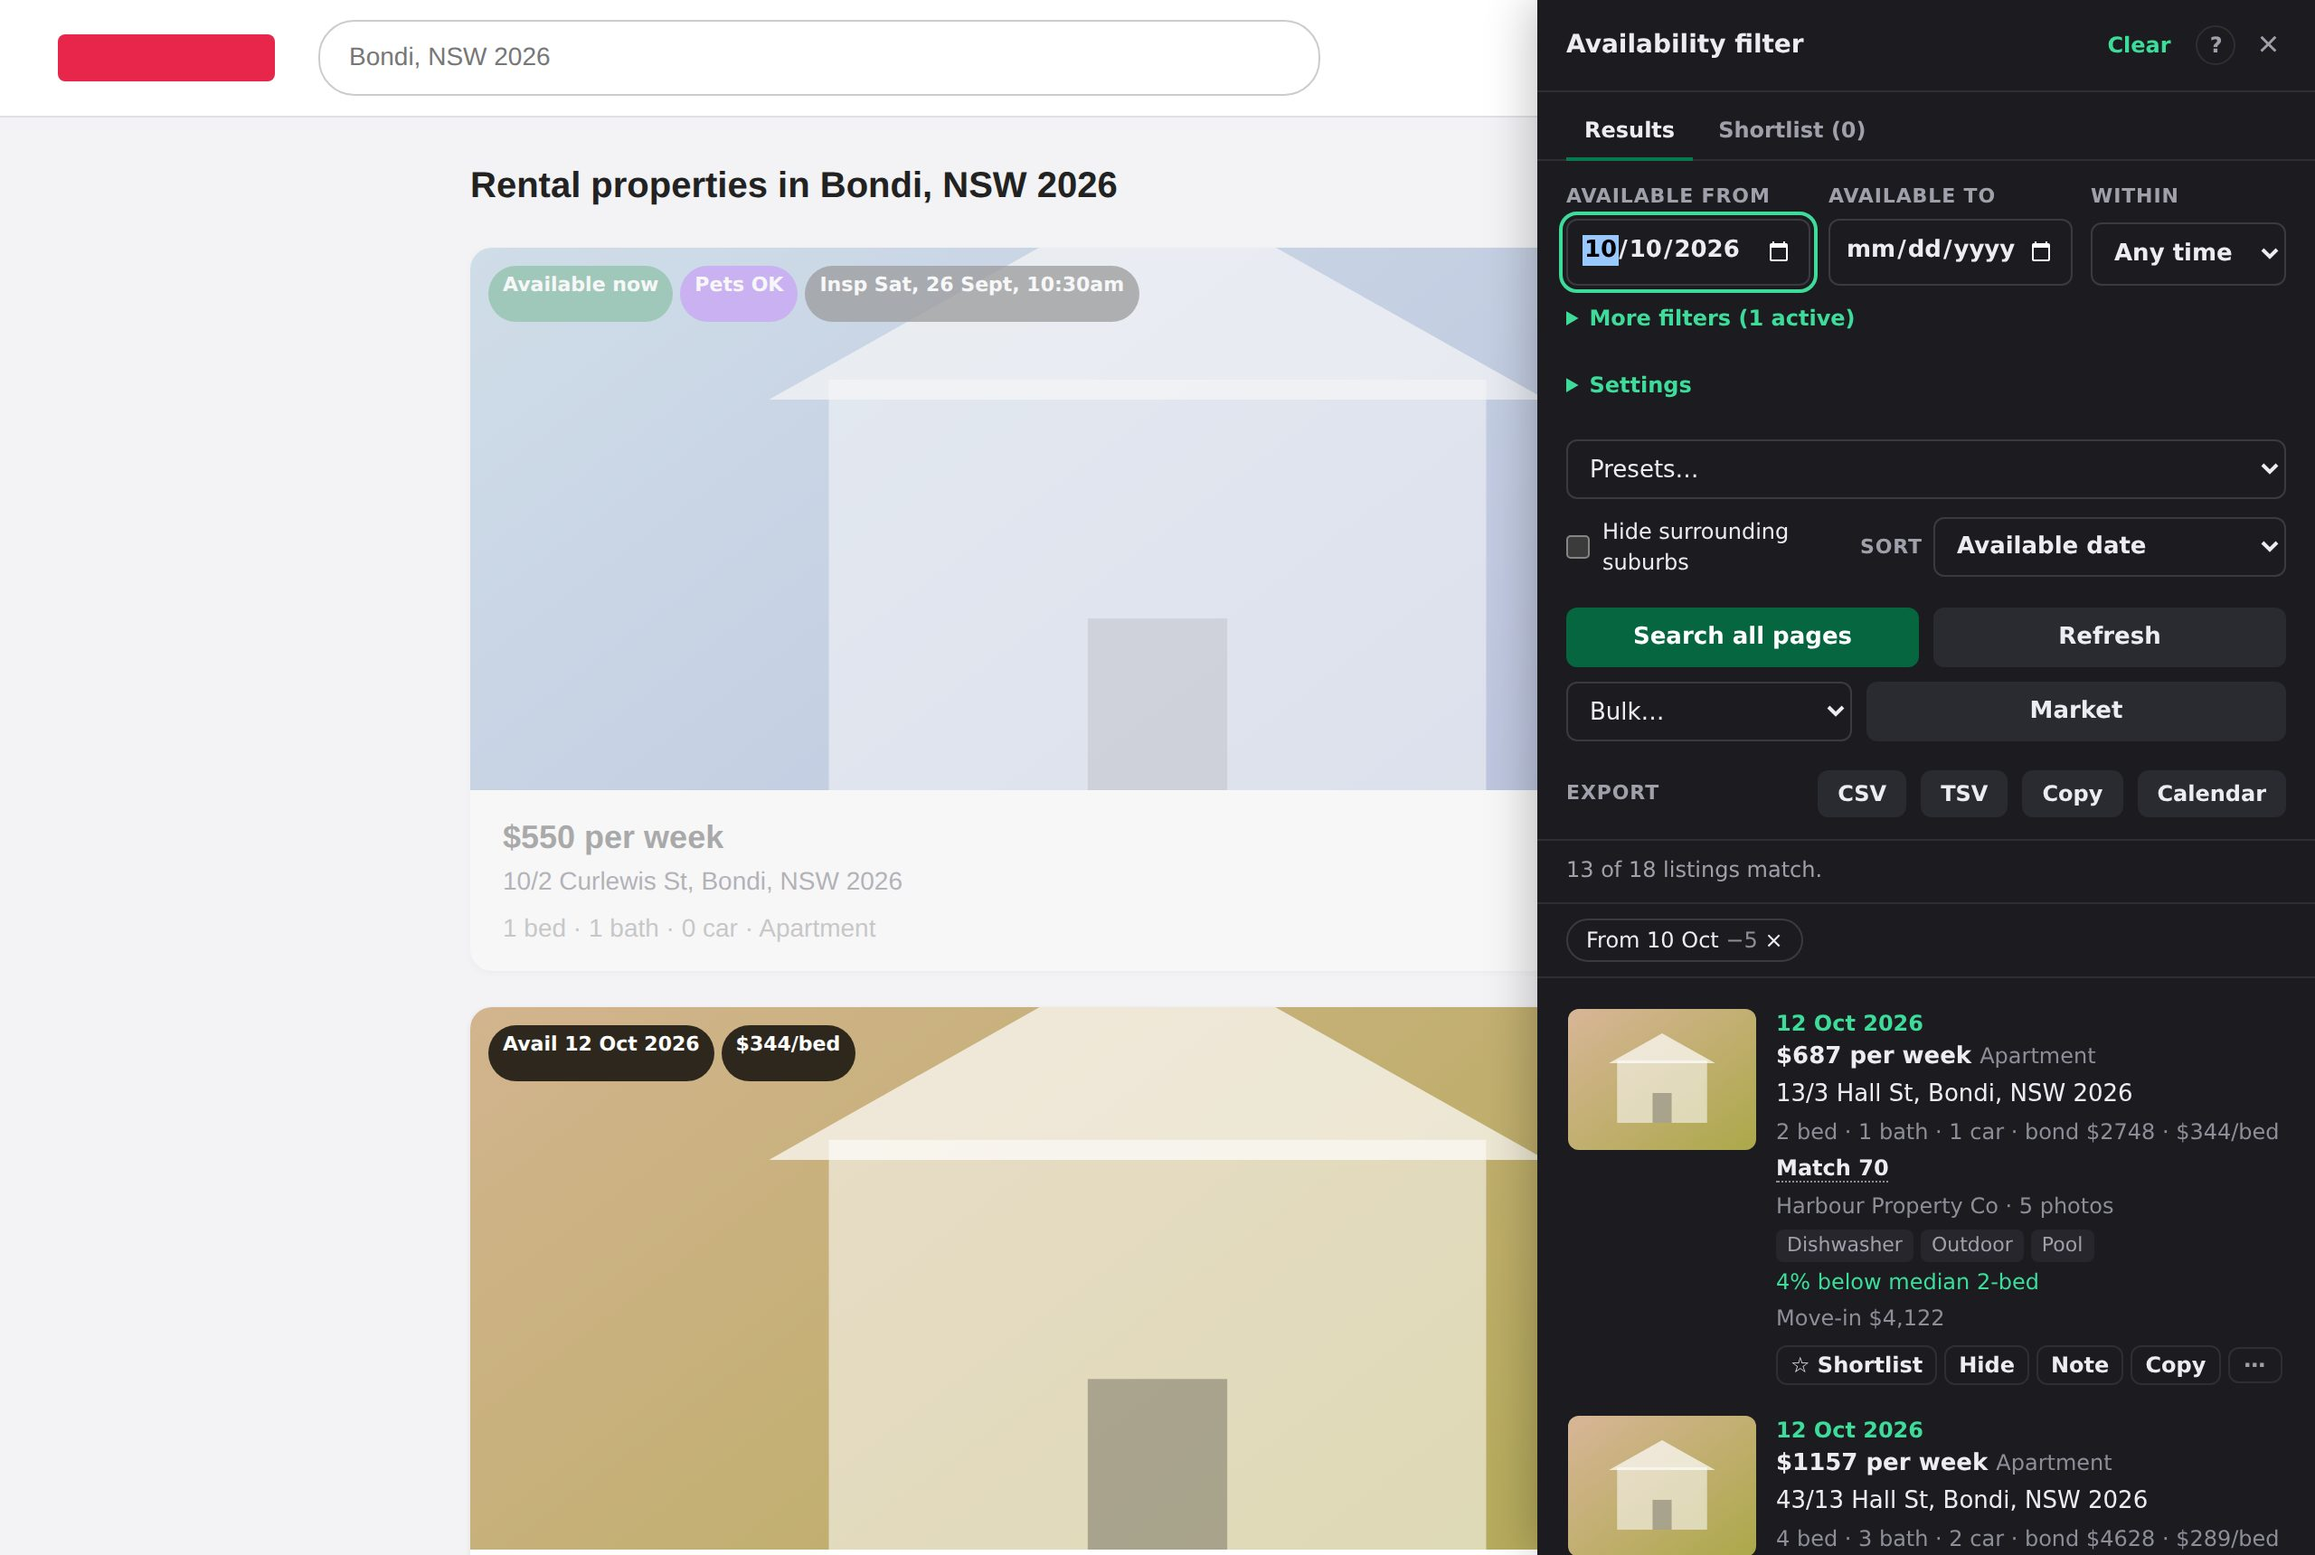
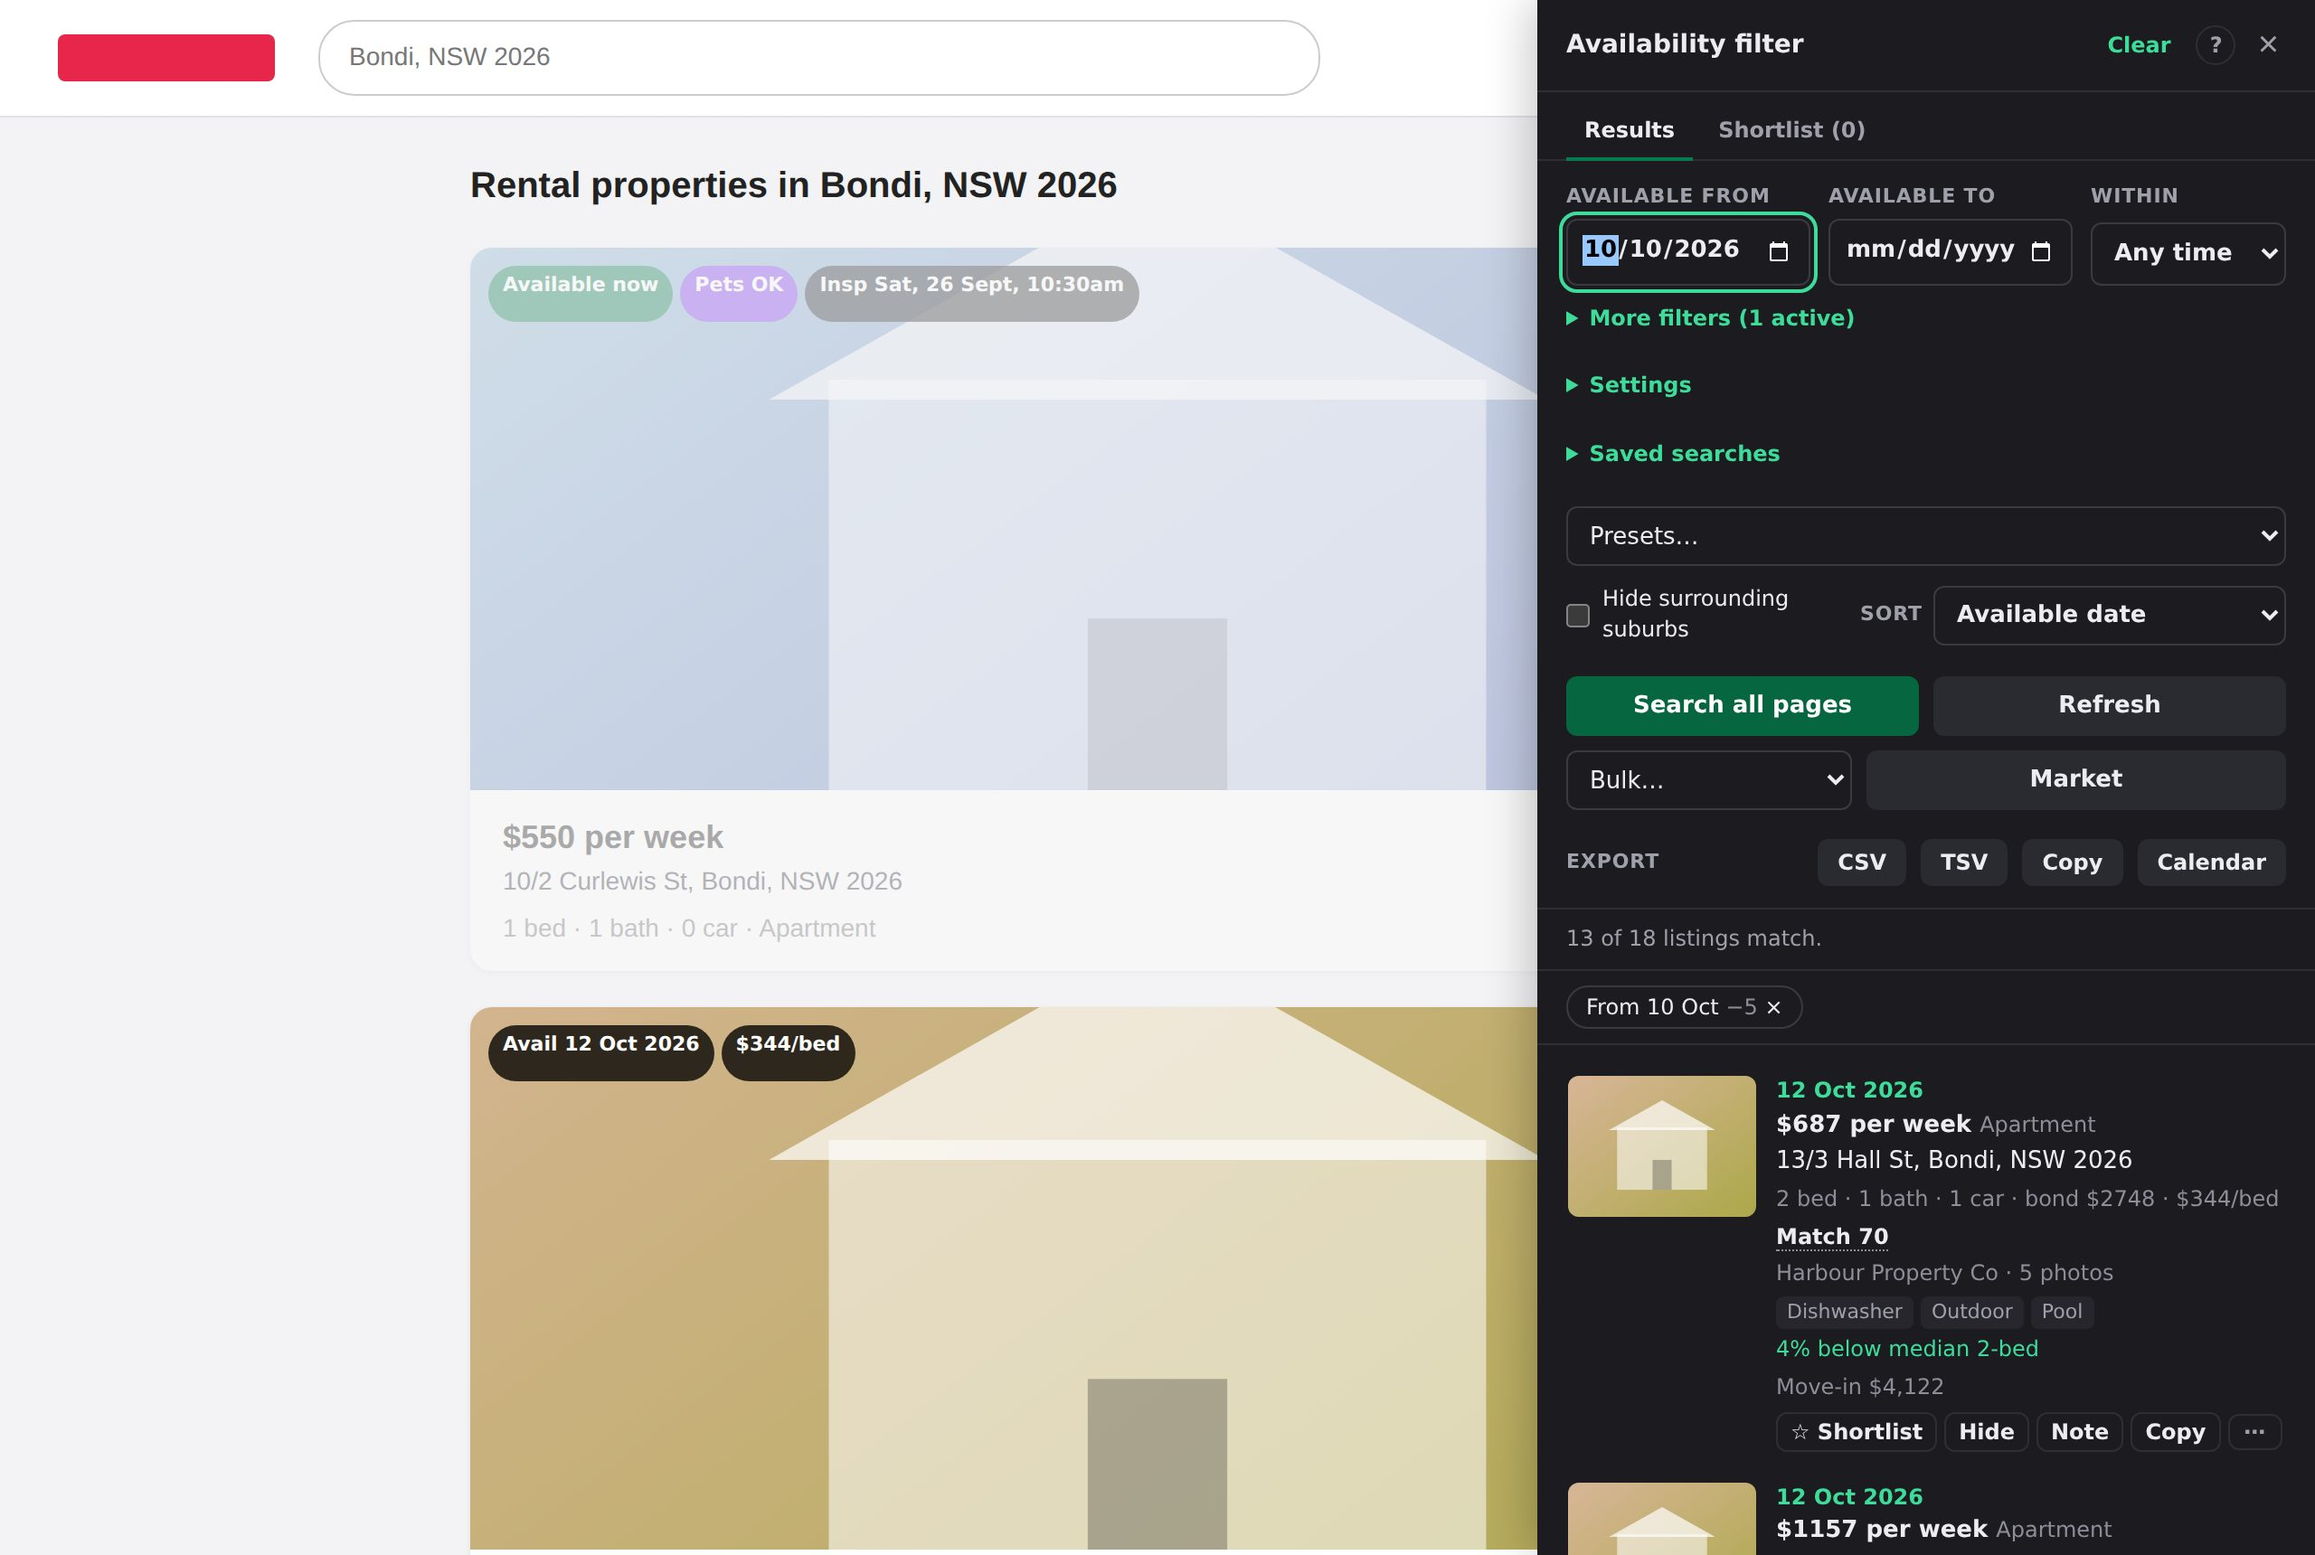
Bump 2.10.0; changelog, readme, screenshots

diff --git a/rea-availability-filter.user.js b/rea-availability-filter.user.js
@@ -1,7 +1,7 @@
 // ==UserScript==
 // @name         REA Availability Filter
 // @namespace    https://github.com/cpwillis/rea-enhancement
-// @version      2.9.1
+// @version      2.10.0
 // @description  Availability-date filtering and sorting, extra filters, cross-page merging, on-card availability badges and CSV/TSV export for realestate.com.au rental searches.
 // @author       cpwillis
 // @homepageURL  https://github.com/cpwillis/rea-enhancement

diff --git a/README.md b/README.md
@@ -28,6 +28,8 @@ Updates are automatic: Tampermonkey checks `@updateURL` (the file on `main`) and
 - Sort by available date, price, price per bed, best value vs median, **best match**, nearest, most beds, next inspection, newest first. Best match is a 0-100 score from rent vs your budget (or the median), timing vs your "from" date, distance and move-in cost; hover it to see the parts.
 - **Move-in cost** (bond + 2 weeks' rent) on every listing; bonds above 4 weeks' rent are flagged.
 - **Rent vs median** for the same bed count in your results (eg "12% below median 2-bed").
+- **Market view**: rent spread per bed count and a week-by-week availability chart for what you're looking at; click a week to filter to it.
+- **Household income** (optional): rent as a share of income, flagged over 30%.
 - **Active filter chips** show what's filtering and how many listings each removes; click one to drop it.
 - **Presets**: save filter sets by name, or one per search that applies automatically when you come back.
 - **Bulk actions** (shortlist or hide everything shown, set a status across the shortlist) with Undo.
@@ -50,11 +52,14 @@ Updates are automatic: Tampermonkey checks `@updateURL` (the file on `main`) and
 - **Share** the shortlist as a link (data stays in the link, nothing goes to a server) or **Print** it for open homes.
 - **Backup / Restore** the shortlist, hidden listings, notes and remembered searches as a JSON file, eg to move to another browser.
 - **Remembers each search between visits** (on by default; a setting turns it off and forgets what's stored). Coming back shows the saved results straight away, and **Refresh** fetches current listings and diffs them: listings added since your last visit are tagged **new** (filter: "New since last visit only"), and ones taken down are counted and can be shown greyed out. Sort **Newest first** to see additions in order of listing.
+- **Saved searches**: see your remembered searches and **Check all for new listings** in one click (each fetched one page at a time).
 - Price changes show "was $X" (hover for the full history). A listing relisted at the same address under a new id is tagged **relisted** with its old price, and stays hidden if you'd hidden it.
 
 ![Shortlist and price-change tags](docs/screenshots/shortlist.jpg)
 
 ![Compare shortlisted listings](docs/screenshots/compare.jpg)
+
+![Market view](docs/screenshots/market.jpg)
 
 **Export**: CSV (opens cleanly in Excel), TSV, copy to clipboard for Google Sheets, or **Calendar** (.ics) with every upcoming inspection time for your results or shortlist. Spreadsheet columns include weekly rent, $/bed, move-in cost, vs-median, inspections, shortlist, application status and previous price.
 

diff --git a/CHANGELOG.md b/CHANGELOG.md
@@ -2,6 +2,14 @@
 
 Versions match the userscript's `@version`; installs auto-update from `main` when it increases.
 
+## 2.10.0
+
+- **Market** view: weekly rent per bed count (median, middle half, range, per bed) and how many listings become available each week, over the listings your filters show; click a week to filter to it.
+- **Saved searches** (next to Settings): your remembered searches with when each was checked; **Check all for new listings** fetches each one politely and counts what's new or gone.
+- **Household income** (optional setting): rent as a share of income on each listing and in Compare, flagged over 30%; sets Best match's budget when there's no max rent.
+- Fixed: one corrupt stored shortlist, snapshot or preset entry could stop saving or searching; restored presets could be dropped when the list was full or bind two presets to one search; a search's "previous filters" were lost on reload and leaked to other searches; field discovery could skip a renamed field on every later listing after one empty one; a connection drop mid-download stopped Re-check; stored inspections could hide upcoming sessions behind past ones; Compare with a filtered-out selection showed nothing.
+- Drawer controls wrap instead of overflowing sideways.
+
 ## 2.9.1
 
 - Fixed: filter chip counts could overwrite Best match scores; bulk Undo restored every listing's marks rather than only the ones it touched.
